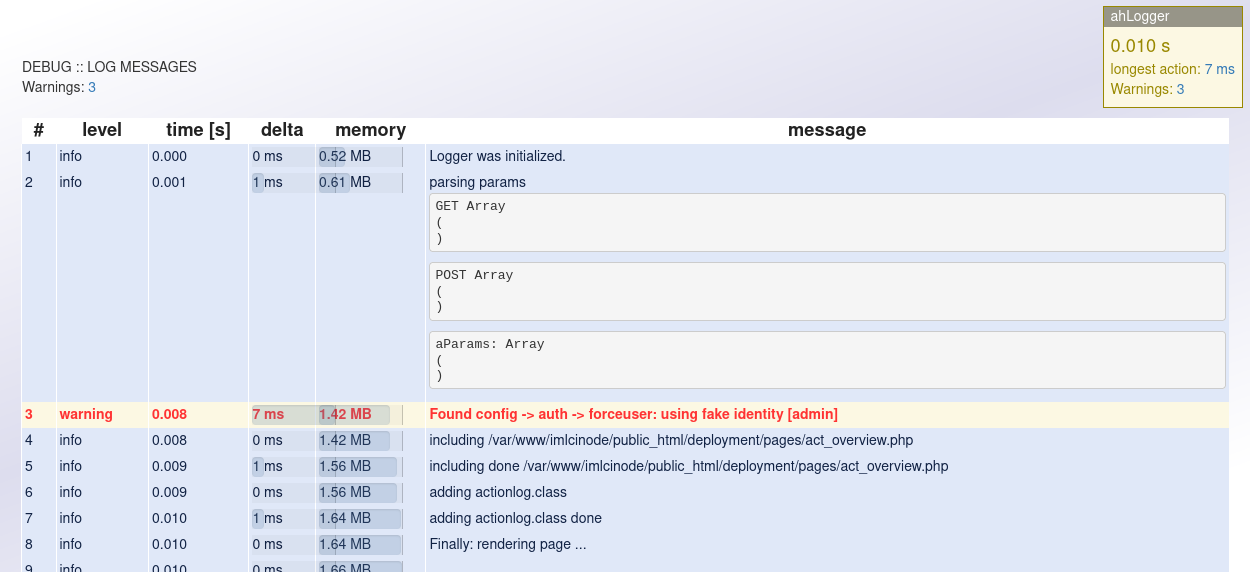
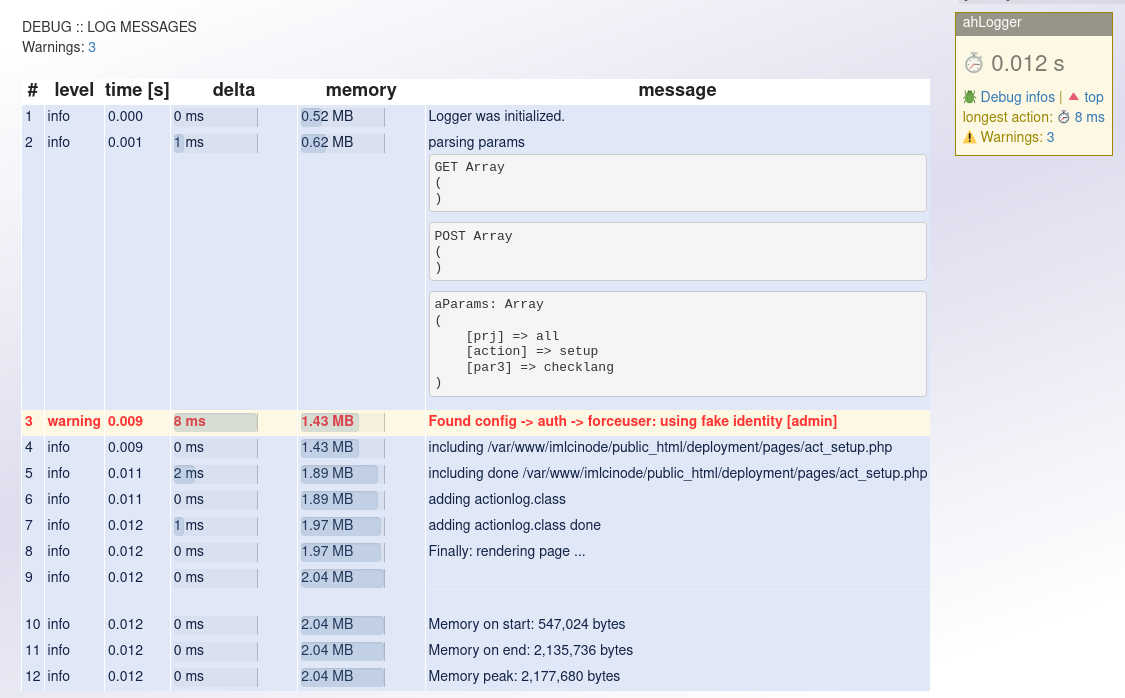
add emoji chars

diff --git a/logger.class.php b/logger.class.php
@@ -216,10 +216,10 @@ class logger {
         if ($sOut){
             $sOut = '
             <style>
-                .'.$this->sCssPrefix.'-info          {position: fixed; top: 6em; right: 1em; background: rgba(160,200,255, 0.3); border: 1px solid; z-index: 99999;}
-                .'.$this->sCssPrefix.'-info .head    {background: rgba(0,0,0,0.4); color: #fff;padding: 0em 0.5em; }
+                .'.$this->sCssPrefix.'-info          {position: fixed; top: 6em; right: 1em; background: rgba(200,228,255, 0.8); border: 1px solid; z-index: 99999;}
+                .'.$this->sCssPrefix.'-info .head    {background: rgba(0,0,0,0.4); color: #fff;padding: 0em 0.5em 0.2em; }
                 .'.$this->sCssPrefix.'-info .content {padding: 0.5em; }
-                .'.$this->sCssPrefix.'-info .content .total {font-size: 140%; color: rgba(0,0,0,0.5); margin: 0.3em 0; display: inline-block;}
+                .'.$this->sCssPrefix.'-info .content .total {font-size: 160%; color: rgba(0,0,0,0.5); margin: 0.3em 0; display: inline-block;}
 
                 .'.$this->sCssPrefix.'-messages {margin: 5em 2em 2em;}
                 .'.$this->sCssPrefix.'-messages .bar      {background: rgba(0,0,0,0.03); height: 1.4em; position: absolute; width: 6em; border-right: 1px solid rgba(0,0,0,0.2);}
@@ -238,11 +238,11 @@ class logger {
             <div class="'.$this->sCssPrefix.' '.$this->sCssPrefix.'-info '.$this->sCssPrefix.'-level-'.$aData['level'].'">
                 <div class="head">ahLogger</div>
                 <div class="content">
-                    <span class="total">' . $aData['totaltime'] . '&nbsp;s</span><br>
-                    <a href="#'.$this->sCssPrefix.'-messages">Debug infos</a> | <a href="#">top</a><br>
-                    <span>longest&nbsp;action:&nbsp;<a href="#' . $aData['maxrowid'] . '">' . ($aData['maxtime']*1000) . '&nbsp;ms</a></span>
-                    ' . ($aData['errors'] ? '<br><span>Errors: '.$aData['errors'] . '</span>' : '').'
-                    ' . ($aData['warnings'] ? '<br><span>Warnings: '.$aData['warnings'] . '</span>' : '').'
+                    <span class="total">⏱ ' . $aData['totaltime'] . '&nbsp;s</span><br>
+                    🪲 <a href="#'.$this->sCssPrefix.'-messages">Debug infos</a> | 🔺 <a href="#">top</a><br>
+                    <span>longest&nbsp;action: ⏱&nbsp;<a href="#' . $aData['maxrowid'] . '">' . ($aData['maxtime']*1000) . '&nbsp;ms</a></span>
+                    ' . ($aData['errors'] ? '<br><span>‼ Errors: '.$aData['errors'] . '</span>' : '').'
+                    ' . ($aData['warnings'] ? '<br><span>⚠ Warnings: '.$aData['warnings'] . '</span>' : '').'
                 </div>
             </div>
 
